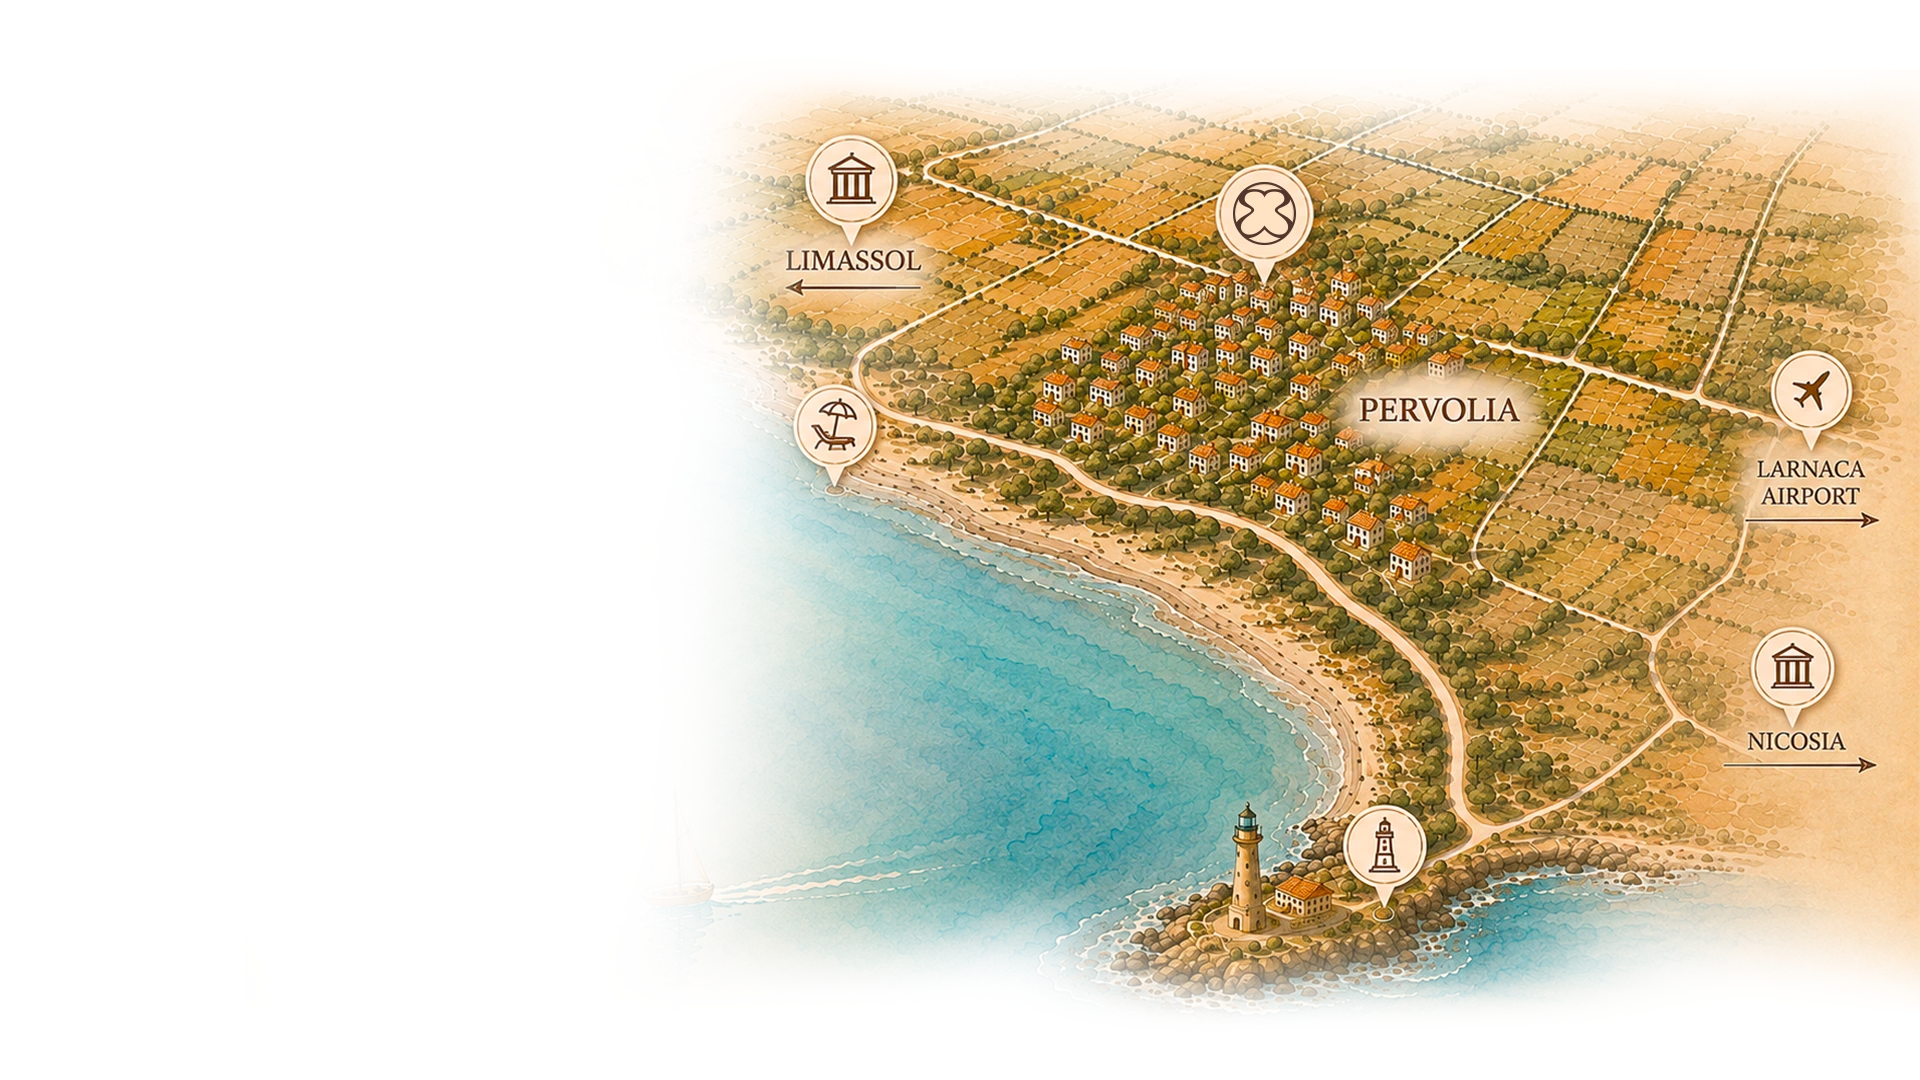
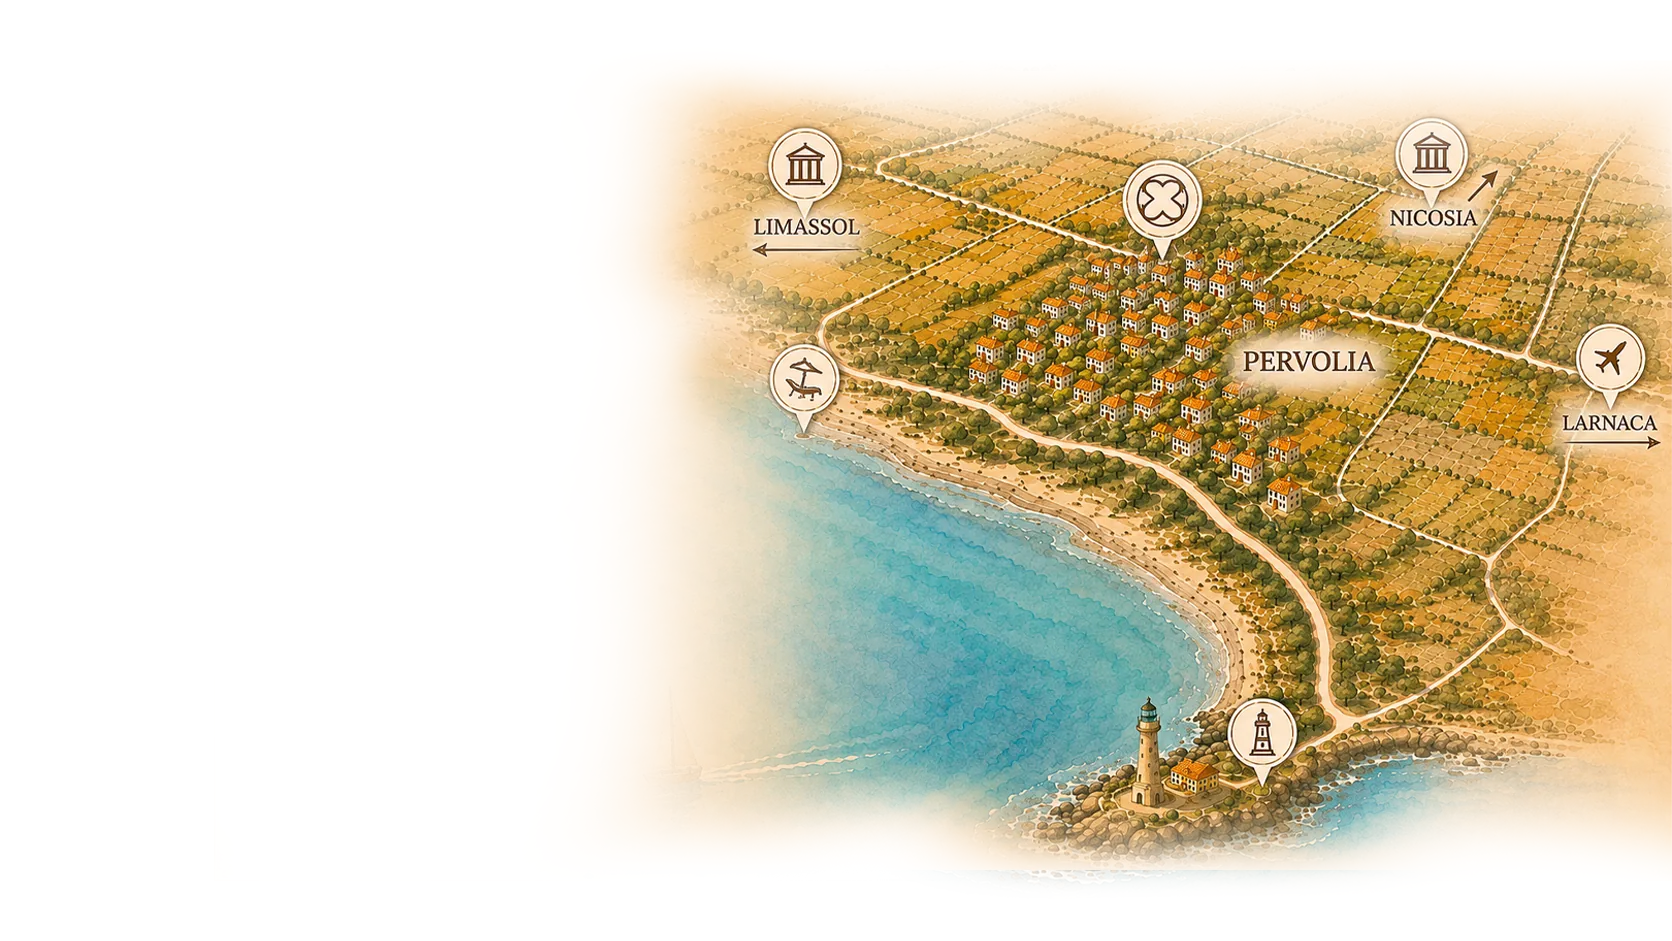
Swap in the new desktop map artwork
The uploaded PNG (1672x941, transparent left edge, "Larnaca" label)
is encoded to WebP in place of map-desktop.webp, halving its weight.
The raw PNG is removed from the tree: sources are gitignored and only
the optimised WebP is committed. Intrinsic dimensions updated to match.

Claude-Session: https://claude.ai/code/session_01EUHrrP25MrxC15PtaCgshc

diff --git a/components/Location.tsx b/components/Location.tsx
@@ -53,8 +53,8 @@ export default function Location() {
             className="reya-map-desk"
             src="/uploads/map-desktop.webp"
             alt="Illustrated map of Pervolia, Larnaca — Reya location"
-            width={1920}
-            height={1080}
+            width={1672}
+            height={941}
             style={{ width: '100%', height: '100%', objectFit: 'contain', objectPosition: 'right center', display: 'block' }}
           />
           <Image
